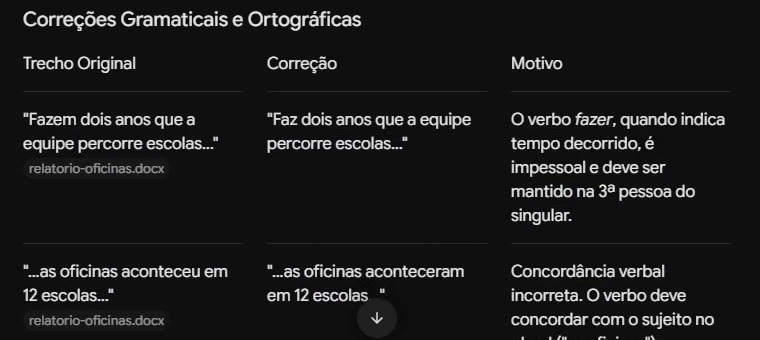
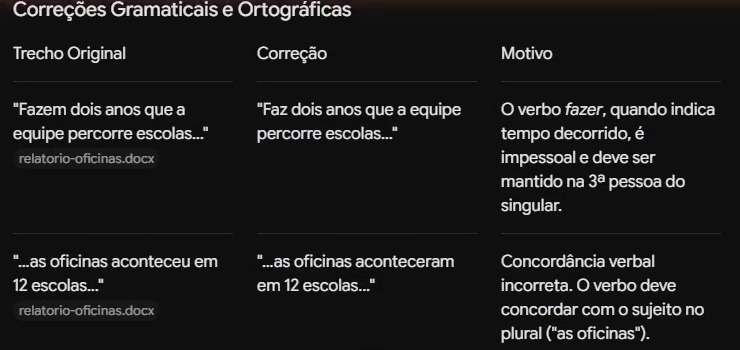
Curso: correções da revisão (botão Virar, versos com os dois pedidos, balanço, contador da Folha, ponte, letras)

diff --git a/public/curso-agente-x7k2/aula.html b/public/curso-agente-x7k2/aula.html
@@ -58,7 +58,7 @@
   <section class="cena" id="sala" data-fase="1" data-passos="4" data-titulo="A sala em pontos">
     <canvas class="fundo" aria-hidden="true"></canvas>
     <div class="sala-destaque" hidden>
-      <span class="rotulo">Vamos começar por aqui</span>
+      <span class="rotulo">O que mais toma o tempo</span>
       <strong></strong>
     </div>
     <div class="sala-cabeca">
@@ -261,8 +261,8 @@
         <div class="janela-barra"><i></i><i></i><i></i><span>o chat de IA que você já usa</span></div>
         <div class="janela-corpo">
           <span class="rotulo">Fase 2 · No navegador</span>
-          <h2 class="titulo">Começando pelo que toma o seu tempo</h2>
-          <p class="comeca-por">Um problema por vez, resolvido aqui mesmo, sem instalar nada.</p>
+          <h2 class="titulo">Um problema por vez</h2>
+          <p class="comeca-por">Resolvido aqui mesmo, sem instalar nada.</p>
         </div>
       </div>
     </div>
@@ -283,9 +283,11 @@
       <div class="peca video" data-passo="1" data-ao-vivo="assets/video/gemini-relatorio.mp4">
         <div class="peca-giro">
           <div class="frente"><span class="selo-video">gravado · esperas aceleradas</span><video src="assets/video/gemini-relatorio.mp4" poster="assets/video/gemini-relatorio.jpg" muted playsinline preload="metadata"></video><i class="progresso"><b></b></i></div>
-          <div class="verso">
-            <span class="rotulo">O pedido</span>
+          <div class="verso verso-pedidos">
+            <span class="rotulo">1º pedido</span>
             <blockquote>Coordeno este projeto e preciso mandar este relatório para a Pró-Reitoria de Extensão amanhã. Revise o texto: corrija os erros de português e me mostre numa tabela o que mudou […]. Depois, aponte qualquer informação que não bate entre uma parte e outra do relatório.</blockquote>
+            <span class="rotulo rotulo-2">2º pedido</span>
+            <blockquote>Agora me devolva o relatório inteiro já corrigido, num arquivo do Word para eu baixar. Onde houver informação que não bate, deixe destacado entre colchetes para eu conferir antes de enviar.</blockquote>
             <p class="quem">Digitado no Gemini da conta UFG · 3 nov. 2026</p>
             <dl>
               <dt>Quem fez</dt><dd>Gemini, no navegador</dd>
@@ -313,9 +315,11 @@
       <div class="peca video" data-passo="1" data-ao-vivo="assets/video/gemini-planilha.mp4">
         <div class="peca-giro">
           <div class="frente"><span class="selo-video">gravado · esperas aceleradas</span><video src="assets/video/gemini-planilha.mp4" poster="assets/video/gemini-planilha.jpg" muted playsinline preload="metadata"></video><i class="progresso"><b></b></i></div>
-          <div class="verso">
-            <span class="rotulo">O pedido</span>
+          <div class="verso verso-pedidos">
+            <span class="rotulo">1º pedido</span>
             <blockquote>Quero saber: quantas pessoas se inscreveram de cada cidade, de cada vínculo e em cada oficina? Tem alguém inscrito duas vezes? Faça um gráfico com as cidades. E me ensine a fórmula para eu fazer essa contagem sozinho no Excel da próxima vez.</blockquote>
+            <span class="rotulo rotulo-2">2º pedido</span>
+            <blockquote>Ótimo. Agora me devolva a planilha arrumada para eu baixar: com as cidades padronizadas, sem as inscrições repetidas e com uma aba de resumo com as contagens de pessoas únicas.</blockquote>
             <p class="quem">Digitado no Gemini da conta UFG · 3 nov. 2026</p>
             <dl>
               <dt>Quem fez</dt><dd>Gemini, no navegador</dd>
@@ -332,8 +336,8 @@
     <div class="balanco">
       <h2 class="titulo">A IA no navegador resolve bem, mas precisa de conferência sempre</h2>
       <div class="cartoes">
-        <div class="cartao funciona" data-passo="1"><figure><img src="assets/img/fase2/tabela-correcoes.jpg" alt="Tabela do Gemini com trecho original, correção e motivo"></figure><b>Funciona</b><p>O Gemini encontrou os 10 problemas do relatório, acertou as contagens da planilha e explicou a fórmula. Também gerou os arquivos de Word e Excel.</p></div>
-        <div class="cartao confira" data-passo="2"><figure><img src="assets/img/fase2/grafico-quebrado.jpg" alt="Gráfico da planilha gerada pelo Gemini, com o eixo de 0 a 1,2 e sem barras"></figure><b>Confira sempre</b><p>Numa das vezes, o Gemini pôs no relatório, sem ninguém pedir, um cabeçalho da Pró-Reitoria e uma linha de total. Na planilha, o gráfico veio quebrado, e um pedido deu “problema técnico” antes de funcionar.</p></div>
+        <div class="cartao funciona" data-passo="1"><figure><img src="assets/img/fase2/tabela-correcoes.jpg" alt="Tabela do Gemini com trecho original, correção e motivo"></figure><b>Funciona</b><p>No relatório, o Gemini achou os 10 problemas, montou a tabela de correções e gerou o Word. Na planilha, achou as 9 inscrições repetidas e ensinou as fórmulas do Excel.</p></div>
+        <div class="cartao confira" data-passo="2"><figure><img src="assets/img/fase2/grafico-quebrado.jpg" alt="Gráfico da planilha gerada pelo Gemini, com o eixo de 0 a 1,2 e sem barras"></figure><b>Confira sempre</b><p>A pergunta era quantas pessoas, mas as tabelas da primeira resposta somaram as inscrições repetidas: 159 em vez de 150. O arquivo do segundo pedido trouxe as contagens certas, mas o gráfico veio vazio.</p></div>
         <div class="cartao para" data-passo="3"><figure class="vaivem" aria-hidden="true"><span class="lado">seu computador</span><span class="trilha"><i class="doc sobe"></i><i class="doc sobe d2"></i><i class="doc desce"></i></span><span class="lado site">o site</span></figure><b>Onde ele para</b><p>Cada arquivo vai até o site e cada resultado volta como download. Numa pasta inteira com arquivos em formatos diferentes, isso vira subir, baixar e organizar tudo à mão.</p></div>
       </div>
     </div>
@@ -346,7 +350,7 @@
       <div class="texto">
         <span class="rotulo">Fase 3 · No seu computador</span>
         <h2 class="titulo">E numa pasta inteira? A IA trabalha onde os arquivos já estão</h2>
-        <p class="linha-fina">Na Fase 3, a IA roda no seu computador, lê e cria arquivos na pasta que você abrir, e você acompanha cada passo.</p>
+        <p class="linha-fina">Na Fase 3, a IA instalada no seu computador lê e cria arquivos na pasta que você abrir, e você acompanha cada passo.</p>
       </div>
       <div class="area-de-trabalho">
         <div class="janela">
@@ -386,8 +390,8 @@
       </div>
       <div class="vitrine-texto" data-passo="1">
         <span class="rotulo">No computador, com o Antigravity</span>
-        <h2 class="titulo">Doze planilhas, um pedido</h2>
-        <p class="linha-fina">Com um pedido só, a IA abriu 11 planilhas de Excel e 1 CSV, juntou tudo numa nova com resumo e fez o gráfico, sem mexer nos arquivos originais.</p>
+        <h2 class="titulo">Doze planilhas: juntar, conferir e corrigir</h2>
+        <p class="linha-fina">A IA juntou as planilhas de despesas e gerou o gráfico. A conferência achou acentos quebrados nas abas, no resumo e no gráfico, corrigidos num segundo pedido.</p>
         <button class="abrir" type="button">Ver em tela cheia <kbd>Enter</kbd></button>
       </div>
       <div class="peca video maquina" data-passo="1" data-ao-vivo="assets/video/maquina-despesas.mp4">
@@ -430,12 +434,18 @@
 <script src="js/cena-busca.js"></script>
 <script src="js/cena-vitrine.js"></script>
 <script>
-  // A ponte já mostra o que a turma escolheu na pergunta 5.
+  // A ponte mostra o que mais toma o tempo da turma, sem prometer que a aula começa por ali.
   document.getElementById("ponte").addEventListener("entrou", () => {
-    const k = document.body.dataset.comecaPor;
-    if (k === undefined) return;
-    const opcao = window.QUESTIONARIO.PERGUNTAS[4].opcoes[k];
-    document.querySelector("#ponte .comeca-por").textContent = `A turma escolheu: ${opcao.toLowerCase()}. Um problema por vez, resolvido aqui mesmo, sem instalar nada.`;
+    const guardado = document.body.dataset.comecaPor;
+    if (guardado === undefined) return;
+    const p = window.QUESTIONARIO.PERGUNTAS[4];
+    const indices = JSON.parse(guardado);
+    const nomes = indices.map((i) => p.curtas?.[i] || p.opcoes[i].toLowerCase());
+    const lista = nomes.length === 1 ? nomes[0] : `${nomes.slice(0, -1).join(", ")} e ${nomes[nomes.length - 1]}`;
+    const frase = indices.length === 1
+      ? "O que mais toma o tempo desta turma: {lista}."
+      : "O que mais toma o tempo desta turma: {lista}, empatados.";
+    document.querySelector("#ponte .comeca-por").textContent = frase.replace("{lista}", lista);
   });
 
   // Na primeira entrada da Fase 2, a coruja se apresenta e pousa no canto.

diff --git a/public/curso-agente-x7k2/css/palco.css b/public/curso-agente-x7k2/css/palco.css
@@ -165,9 +165,9 @@ button { font: inherit; color: inherit; }
   opacity: 0; transform: translateY(8px); transition: opacity .5s var(--curva), transform .5s var(--curva);
 }
 .busca-notas.on { opacity: 1; transform: none; }
-.busca-notas p { margin: 0; position: relative; padding: 9px 14px 9px 50px; border-radius: 12px; background: rgba(8, 32, 26, .72); border: 1px solid var(--linha); font-size: 16px; line-height: 1.38; color: var(--creme-2); }
+.busca-notas p { margin: 0; position: relative; padding: 7px 14px 7px 48px; border-radius: 12px; background: rgba(8, 32, 26, .72); border: 1px solid var(--linha); font-size: 20px; line-height: 1.28; color: var(--creme-2); }
 .busca-notas b { color: var(--creme); font-weight: 600; }
-.busca-notas i { position: absolute; left: 13px; top: 9px; width: 26px; height: 26px; border-radius: 50%; display: grid; place-items: center; font: 700 14px/1 var(--sans); font-style: normal; color: #fff; }
+.busca-notas i { position: absolute; left: 12px; top: 7px; width: 26px; height: 26px; border-radius: 50%; display: grid; place-items: center; font: 700 14px/1 var(--sans); font-style: normal; color: #fff; }
 .folha-fonte { position: absolute; right: 110px; bottom: 38px; z-index: 2; font-size: 14px; color: var(--creme-3); text-align: right; }
 .dica-ponto {
   position: absolute; z-index: 6; pointer-events: none; max-width: 460px;
@@ -246,13 +246,21 @@ button { font: inherit; color: inherit; }
 .verso dd { margin: 0; color: #10211b; }
 .verso .rascunho { font: 600 13px/1 var(--sans); letter-spacing: .08em; text-transform: uppercase; background: #f6d9c8; color: #8a3b14; padding: 5px 8px; border-radius: 6px; margin-left: 8px; vertical-align: 2px; }
 
+/* Dois pedidos na mesma conversa: o primeiro pediu a revisão; o segundo, o arquivo. */
+.verso-pedidos { padding: 40px 50px 34px; }
+.verso-pedidos blockquote { margin-top: 8px; font-size: 21px; line-height: 1.3; }
+.verso-pedidos .rotulo-2 { display: block; margin-top: 14px; padding-top: 12px; border-top: 1px solid #d8d2c4; }
+.verso-pedidos .quem { margin-top: 12px; font-size: 18px; }
+.verso-pedidos dl { font-size: 19px; grid-template-columns: 170px 1fr; gap: 8px 16px; padding-top: 14px; }
+.verso-pedidos dt { font-size: 14px; }
+
 .virar {
   position: absolute; right: 100px; bottom: 112px; z-index: 4; cursor: pointer;
   padding: 12px 20px; border-radius: 999px; border: 0; background: var(--terracota); color: #fff;
   font-size: 18px; font-weight: 600; display: none; gap: 10px; align-items: center;
   box-shadow: 0 14px 30px -12px rgba(224, 122, 69, .8);
 }
-body.revelado .virar { display: inline-flex; }
+body.revelado .peca.visto ~ .virar { display: inline-flex; }
 .virar kbd { font: 600 13px/1 var(--mono); padding: 4px 7px; border-radius: 5px; background: rgba(255, 255, 255, .22); }
 
 /* Quadro ao vivo, por cima de tudo */
@@ -362,7 +370,7 @@ body.preto .tela-preta { display: block; }
   opacity: 0; translate: 0 24px; transition: opacity .6s var(--curva), translate .8s var(--curva);
 }
 .cartao.visto { opacity: 1; translate: 0 0; }
-.cartao figure { margin: 0 0 8px; height: 170px; overflow: hidden; background: #131314; border-bottom: 1px solid var(--linha); }
+.cartao figure { margin: 0 0 8px; height: 208px; overflow: hidden; background: #131314; border-bottom: 1px solid var(--linha); }
 .cartao figure img { width: 100%; height: 100%; object-fit: cover; object-position: top left; display: block; }
 .cartao b, .cartao p { margin: 0 32px; }
 .cartao b { font: 600 15px/1 var(--sans); letter-spacing: .12em; text-transform: uppercase; }
@@ -407,7 +415,7 @@ body.preto .tela-preta { display: block; }
 .area-de-trabalho .pasta header { display: flex; align-items: center; gap: 10px; background: #e7e4dc; padding: 12px 18px; font: 600 16px/1 var(--sans); }
 .icone-pasta { width: 22px; height: 16px; border-radius: 3px; background: var(--ouro); position: relative; }
 .icone-pasta::before { content: ""; position: absolute; left: 0; top: -4px; width: 10px; height: 5px; border-radius: 2px 2px 0 0; background: var(--ouro); }
-.area-de-trabalho .pasta ul { list-style: none; margin: 0; padding: 12px 18px; columns: 2; font: 400 16px/1.9 var(--mono); color: #3b4a44; }
+.area-de-trabalho .pasta ul { list-style: none; margin: 0; padding: 8px 18px; columns: 2; font: 400 20px/1.55 Consolas, var(--mono); color: #3b4a44; }
 
 /* ---------- Instalar ---------- */
 

diff --git a/public/curso-agente-x7k2/js/cena-sala.js b/public/curso-agente-x7k2/js/cena-sala.js
@@ -166,7 +166,7 @@
   // ===================== A sala: montes de bolinhas =====================
   const sala = document.getElementById("sala");
   const ctxSala = preparar(sala.querySelector("canvas.fundo"));
-  let pergunta = 0, grupos = [], raio = 14, realce = null, rafSala = 0;
+  let pergunta = 0, grupos = [], raio = 14, realce = [], rafSala = 0;
 
   // Monta os grupos da pergunta e diz a cada ponto em que monte ele cai.
   function montes() {
@@ -185,15 +185,19 @@
       g.cx = x0 + passo * (i + .5); g.larg = passo * .86;
       g.itens.forEach((l) => { const pt = pontos.get(l._id); if (pt) { pt.monte = g; pt.apagado = !!g.aparte; } });
     });
-    // Na pergunta 5, o monte mais alto ganha destaque: é por ele que a Fase 2 começa.
+    // Na pergunta 5, o monte mais alto ganha destaque. Empates mostram todos os lados,
+    // e a ponte usa a mesma lista sem prometer que a aula começa por aqui.
     const destaque = sala.querySelector(".sala-destaque");
     if (pergunta === 4 && respondeu.length) {
-      const k = grupos.reduce((m, g, i) => g.itens.length > grupos[m].itens.length ? i : m, 0);
-      destaque.querySelector("strong").textContent = p.opcoes[k];
-      destaque.hidden = false;
-      realce = grupos[k];
-      document.body.dataset.comecaPor = k;
-    } else { destaque.hidden = true; realce = null; }
+      const maior = Math.max(...grupos.filter((g) => !g.aparte).map((g) => g.itens.length));
+      const empatados = grupos.map((g, i) => ({ g, i })).filter(({ g }) => !g.aparte && g.itens.length === maior).map(({ i }) => i);
+      if (maior > 0 && empatados.length) {
+        destaque.querySelector("strong").textContent = empatados.map((i) => p.curtas?.[i] || p.opcoes[i]).join(" · ");
+        destaque.hidden = false;
+        realce = empatados.map((i) => grupos[i]);
+        document.body.dataset.comecaPor = JSON.stringify(empatados);
+      } else { destaque.hidden = true; realce = []; delete document.body.dataset.comecaPor; }
+    } else { destaque.hidden = true; realce = []; }
     sala.querySelector(".titulo").textContent = p.texto.replace(" Marque o ponto mais distante.", "");
     sala.querySelector(".rotulo.num").textContent = `Pergunta ${pergunta + 1} de ${Q.PERGUNTAS.length}`;
   }
@@ -229,18 +233,21 @@
     }
     ctx.clearRect(0, 0, W, H);
     for (const g of grupos) {
-      ctx.fillStyle = g === realce ? "rgba(224,122,69,.6)" : "rgba(243,239,230,.16)";
-      ctx.fillRect(g.cx - g.larg / 2, chao + 3, g.larg, g === realce ? 3 : 1.5);
+      const destacado = realce.includes(g);
+      ctx.fillStyle = destacado ? "rgba(224,122,69,.6)" : "rgba(243,239,230,.16)";
+      ctx.fillRect(g.cx - g.larg / 2, chao + 3, g.larg, destacado ? 3 : 1.5);
     }
     for (const pt of pts) {
-      ctx.globalAlpha = pt.apagado ? .3 : realce && pt.monte !== realce ? .32 : 1;
-      if (realce && pt.monte === realce) { ctx.strokeStyle = "#e07a45"; ctx.lineWidth = 2.5; ctx.beginPath(); ctx.arc(pt.x, pt.y, raio + 3, 0, Math.PI * 2); ctx.stroke(); }
+      const destacado = realce.includes(pt.monte);
+      ctx.globalAlpha = pt.apagado ? .3 : realce.length && !destacado ? .32 : 1;
+      if (destacado) { ctx.strokeStyle = "#e07a45"; ctx.lineWidth = 2.5; ctx.beginPath(); ctx.arc(pt.x, pt.y, raio + 3, 0, Math.PI * 2); ctx.stroke(); }
       bola(ctx, pt.x, pt.y, raio, BRILHO[pt.f] || BRILHO[2], pt.f >= 3 ? 14 : 5);
     }
     ctx.globalAlpha = 1;
     ctx.textAlign = "center"; ctx.textBaseline = "top";
     for (const g of grupos) {
-      ctx.fillStyle = g.aparte ? "#7d958a" : g === realce ? "#e07a45" : "#f3efe6";
+      const destacado = realce.includes(g);
+      ctx.fillStyle = g.aparte ? "#7d958a" : destacado ? "#e07a45" : "#f3efe6";
       ctx.font = `400 ${g.aparte ? 30 : 48}px Georgia, serif`;
       ctx.fillText(g.aparte ? `${g.itens.length}` : g.itens.length ? `${g.pct}%` : "–", g.cx, chao + 18);
       ctx.fillStyle = g.aparte ? "#7d958a" : "#b7c6be"; ctx.font = "500 21px Inter, system-ui, sans-serif";

diff --git a/public/curso-agente-x7k2/js/cena-busca.js b/public/curso-agente-x7k2/js/cena-busca.js
@@ -281,10 +281,12 @@
   const animar = () => { if (!raf) raf = requestAnimationFrame(quadro); };
 
   const numero = cena.querySelector(".busca-contador .numero"), legenda = cena.querySelector(".busca-contador small");
+  // O contador para em ago/2026: set e out incluem o site C-Level e inflam a comparação com 2022.
+  const fimContador = () => { const i = d.meses.indexOf("2026-08"); return i >= 0 ? i : n - 3; };
   function contar() {
-    const i = Math.max(0, Math.min(n - 1, Math.ceil(anim.cursor.v) - 1));
+    const i = Math.max(0, Math.min(fimContador(), Math.ceil(anim.cursor.v) - 1));
     numero.textContent = d.jornal.ia[i].toLocaleString("pt-BR");
-    legenda.textContent = `textos em ${rotMes(i)}${i >= n - 2 ? " (com o C-Level)" : ""}`;
+    legenda.textContent = `textos em ${rotMes(i)}`;
   }
 
   function aplicar(k) {
@@ -297,7 +299,7 @@
     for (const [nome, v] of Object.entries(alvos)) anim[nome].alvo = v;
     if (NOTAS[k]) anim.eventos.v = 0; // os números entram de novo a cada passo
     mostrarNotas(k);
-    if (k > 0) { anim.cursor.v = n; numero.textContent = d.jornal.ia[n - 1].toLocaleString("pt-BR"); legenda.textContent = `textos em ${rotMes(n - 1)} (com o C-Level)`; }
+    if (k > 0) { anim.cursor.v = n; numero.textContent = d.jornal.ia[fimContador()].toLocaleString("pt-BR"); legenda.textContent = `textos em ${rotMes(fimContador())}`; }
     animar();
   }
 

diff --git a/public/curso-agente-x7k2/js/cena-vitrine.js b/public/curso-agente-x7k2/js/cena-vitrine.js
@@ -29,7 +29,7 @@
       if (quadro) quadro.src = "about:blank"; // jogo e 3D não ficam rodando escondidos
       peca.classList.remove("virada");
     });
-    const virar = () => { if (P.revelado) virarCarta(peca); };
+    const virar = () => { if (P.revelado && peca.classList.contains("visto")) virarCarta(peca); };
     cena.querySelector(".virar")?.addEventListener("click", virar);
     cena.querySelector(".abrir")?.addEventListener("click", () => P.abrirAoVivo(url, nome));
     cena.addEventListener("tecla", (e) => {

diff --git a/public/curso-agente-x7k2/js/questionario.js b/public/curso-agente-x7k2/js/questionario.js
@@ -51,6 +51,8 @@
         "Preparar aulas e materiais",
         "Relatórios e prestação de contas",
       ],
+      // Formas curtas só para os quadros da aula; não mudam a pergunta nem as respostas.
+      curtas: ["e-mails", "reuniões", "planilhas", "conferência de informações", "aulas", "relatórios"],
     },
   ];
 
